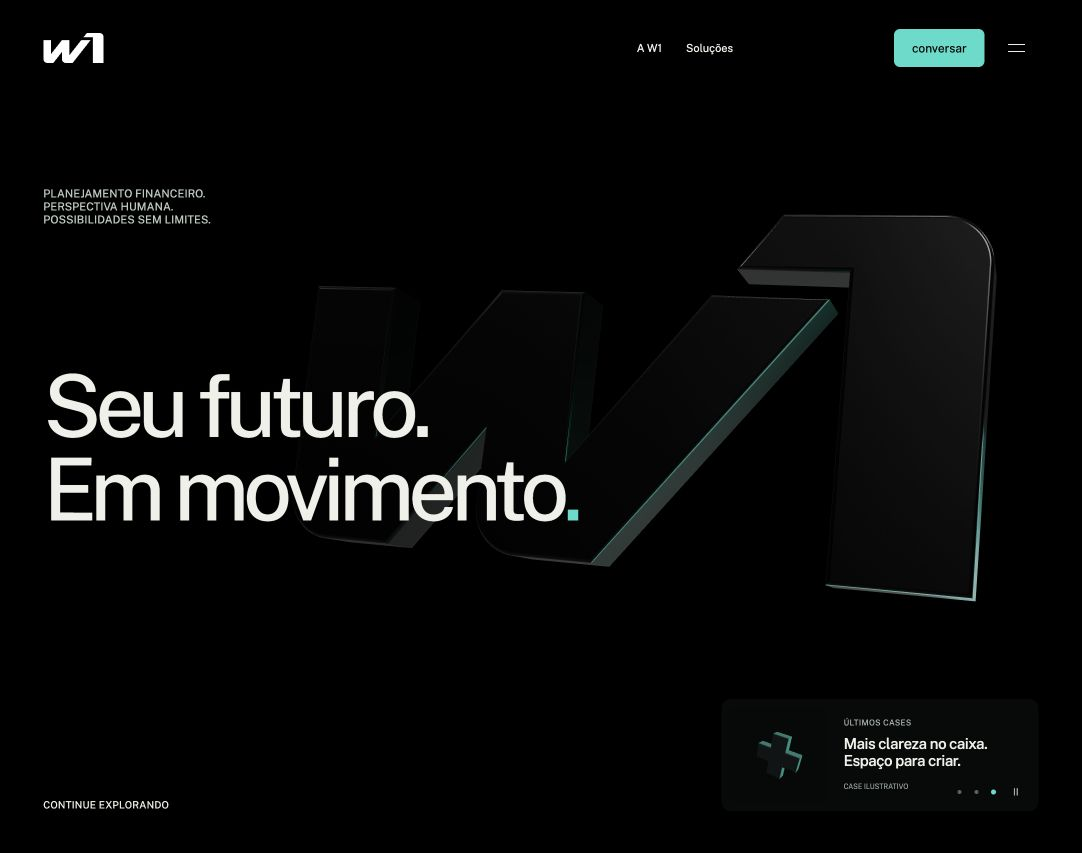
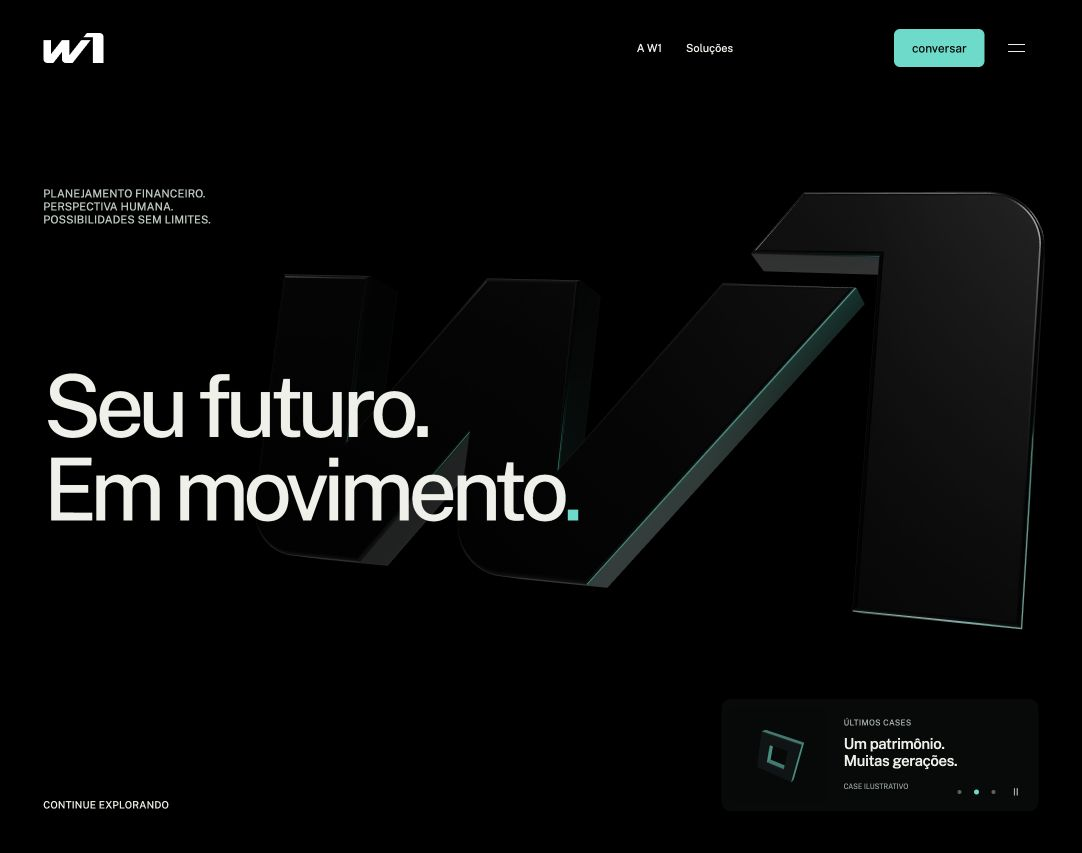
Update Site source

diff --git a/dist/index.html b/dist/index.html
@@ -8,14 +8,14 @@
   <title>W1 — Seu futuro em movimento</title>
   <link rel="icon" href="./assets/w1.svg" type="image/svg+xml">
   <link rel="preload" href="./assets/fonts/PublicSans-Latin.woff2" as="font" type="font/woff2" crossorigin>
-  <link rel="stylesheet" href="./style.css?v=6">
-  <link rel="stylesheet" href="./layout.css?v=6">
-  <link rel="stylesheet" href="./typography.css?v=6">
+  <link rel="stylesheet" href="./style.css?v=7">
+  <link rel="stylesheet" href="./layout.css?v=7">
+  <link rel="stylesheet" href="./typography.css?v=7">
   <script>if(!matchMedia('(prefers-reduced-motion: reduce)').matches&&!location.hash){document.documentElement.classList.add('intro-pending');setTimeout(()=>document.documentElement.classList.remove('intro-pending'),6000);}</script>
   <script type="importmap">{"imports":{"three":"./assets/vendor/three.module.js"}}</script>
   <script defer src="./assets/vendor/gsap.min.js"></script>
   <script defer src="./assets/vendor/ScrollTrigger.min.js"></script>
-  <script type="module" src="./app.js?v=6"></script>
+  <script type="module" src="./app.js?v=7"></script>
 </head>
 <body>
 

diff --git a/dist/app.js b/dist/app.js
@@ -142,7 +142,7 @@ function tick() {
   const reduced = motionQuery.matches;
   state.pointerX += ((reduced ? 0 : pointer.x) - state.pointerX) * .055;
   state.pointerY += ((reduced ? 0 : pointer.y) - state.pointerY) * .055;
-  const fitScale = mobile() ? Math.min(.9, camera.aspect * .96) : Math.min(.95, camera.aspect * .81);
+  const fitScale = mobile() ? Math.min(1, camera.aspect * 1.06) : Math.min(1.065, camera.aspect * .907);
   const enter = reduced ? 1 : arrival.progress;
   const intro = 1 - enter;
   logo.rotation.set(-.16 + state.turn*.04 + state.pointerY*.08, -.34 - state.turn*.1 + state.pointerX*.12, -.11 + state.turn*.025);

diff --git a/README.md b/README.md
@@ -12,13 +12,13 @@ python3 -m http.server 4184 --directory dist
 
 Acesse http://localhost:4184. Não há instalação de dependências nem build. Fontes, scripts e assets são locais.
 
-## Revisão 05
+## Revisão 06
 
 - A abertura mostra primeiro apenas o logo sobre preto. Ele diminui até a posição final e, depois, textos e navegação entram suavemente, sem contador ou indicador de progresso.
 - O objeto tem faces pretas com microtextura discreta e acabamento de plástico metalizado; os bevels e as laterais recebem o destaque da luz.
 - A iluminação usa a mesma cor da interface (`#32ddc9`) e percorre o perímetro no scroll. O miolo permanece predominantemente preto.
 - Fundo preto puro, sem granulação nem iluminação de fundo. O degradê escuro que cobria o logo atrás do manifesto foi removido.
-- W ligeiramente maior, com faces mais escuras e transparência para se integrar ao fundo.
+- W central ampliado em aproximadamente 12% na composição desktop, com faces mais escuras e transparência para se integrar ao fundo.
 - Marquee com separadores geométricos em volume: moldura quadrada, cruz, prisma e cubo. Faces pretas e arestas com reflexos verdes.
 - Tipografia editorial com entrelinhas mais fechadas, parágrafos de apoio maiores e compactos, medidas controladas e alguns apoios em caixa alta.
 - Passagem direta da abertura para o manifesto, seguida do marquee sem divisória superior.
